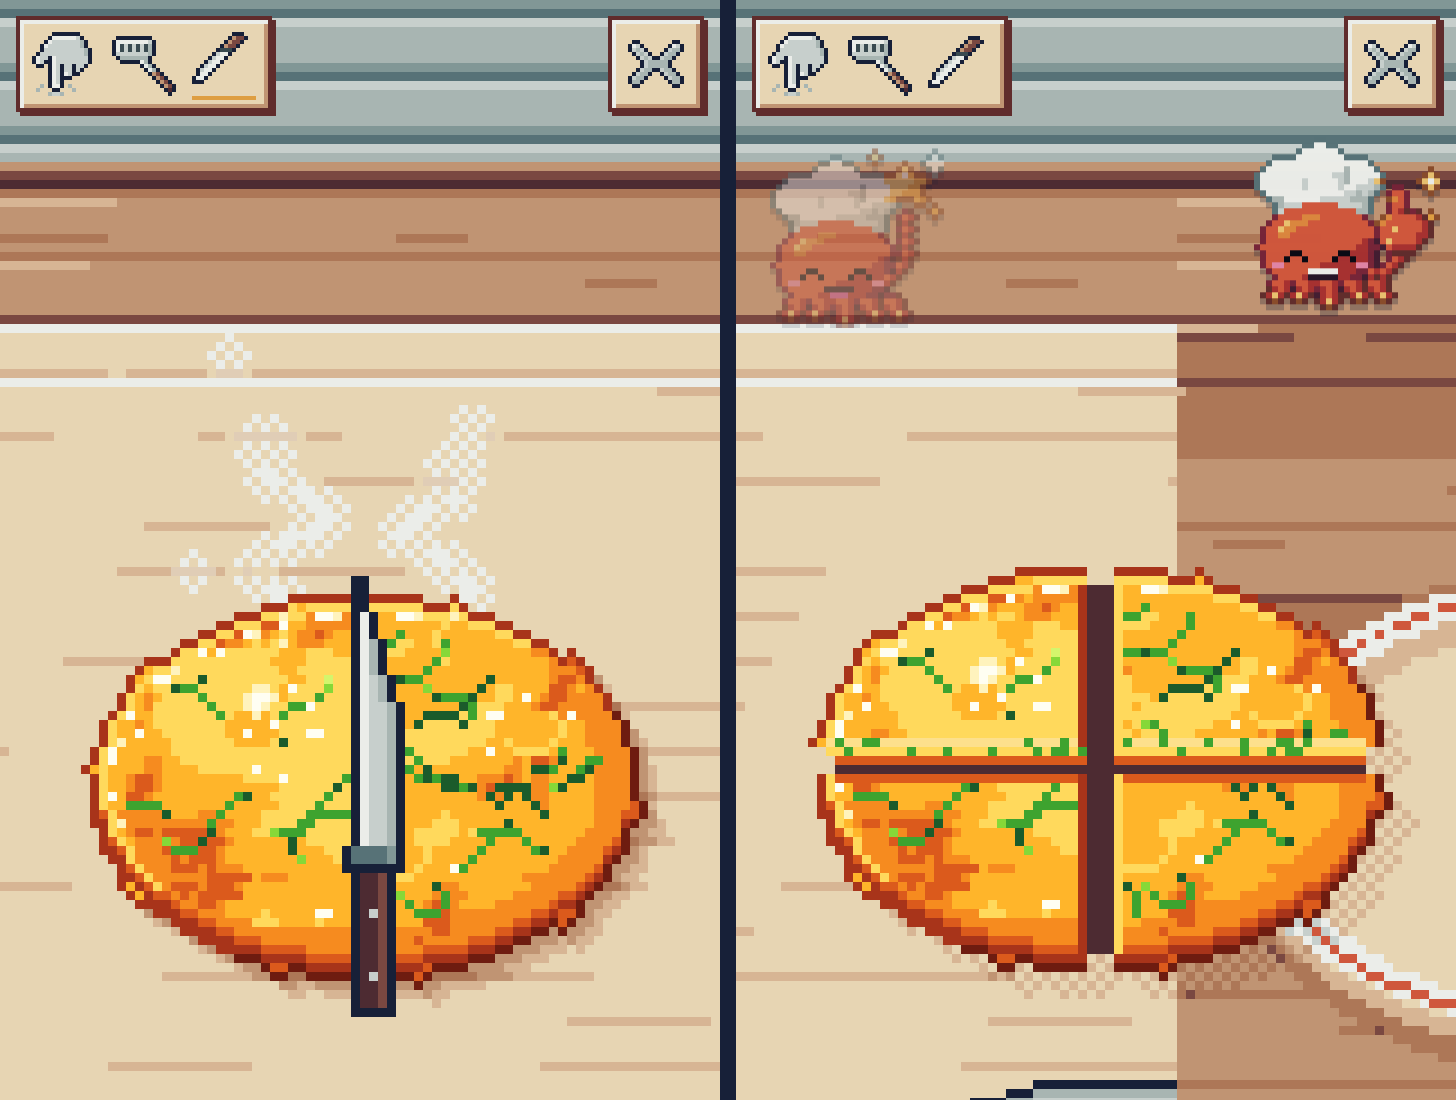
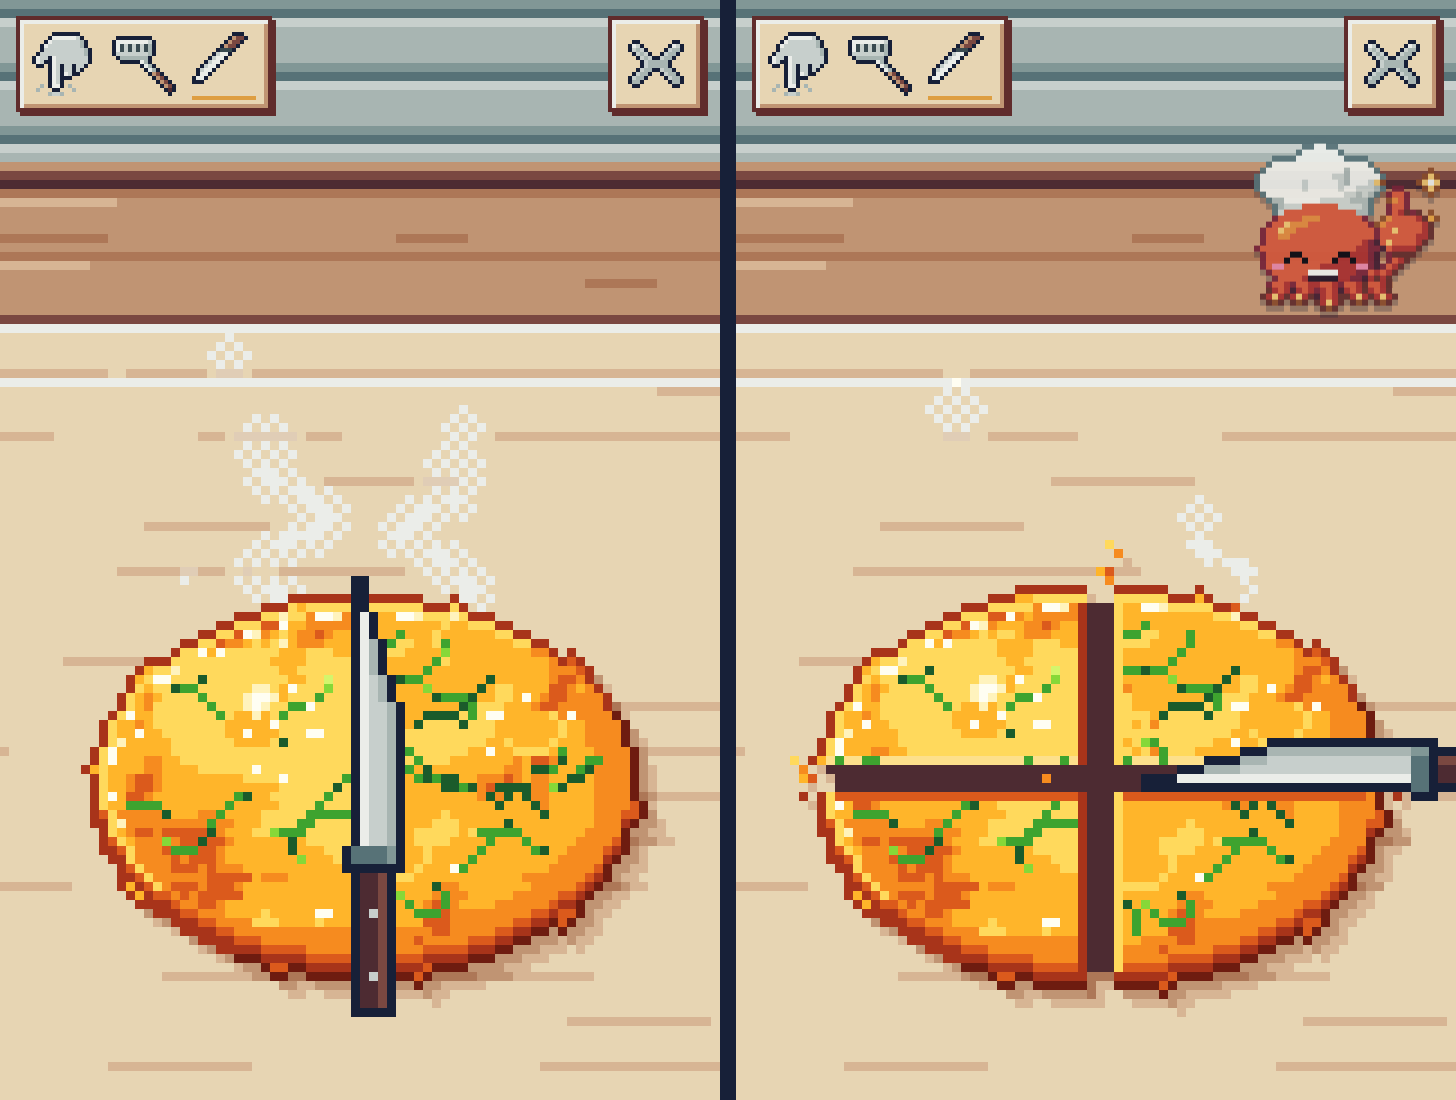
kitchen (round 6 K1 follow-up): both arms of the '+' read with the same weight
The opened gap is painted dark all through (the far piece's cut face no longer fills the horizontal gap),
so the horizontal arm shows 3 dark rows at rest / 5 on the pop like the vertical arm. Pin added; shots and
report updated.

Claude-Session: https://claude.ai/code/session_01Tq2y4TpL7nik5naNou5SQS

diff --git a/tools/test-cook.js b/tools/test-cook.js
@@ -1205,16 +1205,16 @@ section('round 6 K1 (11-18): bell, bigger knife and spatula, the symmetric \'+\'
     check(mir && n > 800, 'cutBuf sep ' + sp2.join(' / ') + ': the left and right quarters mirror each other pixel for pixel (' + n + ' px a side)');
     check(gv.every(function (g) { return g === 2 * sp2[0] + 1; }) && gh.every(function (g) { return g === 2 * sp2[1] + 1; }), 'cutBuf sep ' + sp2.join(' / ') + ': even gaps the whole way, vertical ' + gv.join(',') + ' horizontal ' + gh.join(',') + ' (2 sep + 1)');
   });
-  /* the scenes paint an opened cut as food seen from above: the far wall of a horizontal cut shows its soft inside and its
-     crust (two rows), so there the dark part is 2 sep - 1 rows, measured from the row under the cut (cy + 1) */
+  /* 11-18 (lead follow-up): both arms of the '+' read with the same weight: the dark rows of the horizontal arm equal the
+     dark columns of the vertical arm (3 at rest, 5 on the pop), measured through the cut (cy + 1 / cx) */
   /* sliceScene: the popping line opens to sep 2 on its cut frame, every other cut sits at sep 1 */
   var food = function (c) { return !!FS[c]; };
   var SL = [{ x: 72, y: 86, deg: 90, len: 44, cut: true }, { x: 72, y: 86, deg: 0, len: 64, cut: true }];
   function sl(o) { return paint(K, function (L, b) { L.sliceScene(b, Object.assign({ band: 1, dents: M9, lines: SL, cur: -1, knife: null, f: 0 }, o)); }); }
   var s0 = sl({}), sPop0 = sl({ flash: 0, pop: true }), sPop1 = sl({ flash: 1, pop: true }), sSet = sl({ flash: 0, pop: false });
   function gaps(b) { return [gapAt(b, food, 72, 96, 1, 0), gapAt(b, food, 90, 87, 0, 1)]; }
-  check(same(gaps(s0), [3, 1]) && same(gaps(sPop0), [5, 3]) && same(gaps(sPop1), [3, 5]) && same(gaps(sSet), [3, 3]),
-    'sliceScene: rest 3 / 1 dark; the cut frames light every opened gap (s6) and the pop opens only the new cut to 5 (' + [gaps(s0), gaps(sPop0), gaps(sPop1), gaps(sSet)].map(function (g) { return g.join('/'); }).join(' · ') + ')');
+  check(same(gaps(s0), [3, 3]) && same(gaps(sPop0), [5, 3]) && same(gaps(sPop1), [3, 5]) && same(gaps(sSet), [3, 3]),
+    'sliceScene: rest 3 / 3 (both arms the same dark weight); the pop opens only the new cut to 5 (' + [gaps(s0), gaps(sPop0), gaps(sPop1), gaps(sSet)].map(function (g) { return g.join('/'); }).join(' · ') + ')');
   /* REV2: t <= 4 the board look (sep 1), t 5 sep 2, t >= 6 and rest sep 1; no nudge (gaps even all along) */
   var LOOK0 = { v: 1, dents: M9, band: 2, cuts: [0, 0], offs: [0, 0], plate: 1 };
   function rv(t) { return paint(K, function (L, b) { L.revealScene(b, { geo: 'close', look: LOOK0, t: t, seed: 3 }); }); }
@@ -1223,13 +1223,15 @@ section('round 6 K1 (11-18): bell, bigger knife and spatula, the symmetric \'+\'
     var b = rv(t), up = t === 3 ? -2 : 0; rvG[t] = [[-12, -6, 8, 13].map(function (d) { return gapAt(b, food, G2.jcx, G2.jcy + d, 1, 0); }), [-20, -10, 10, 20].map(function (d) { return gapAt(b, food, G2.jcx + d, G2.jcy + 1 + up, 0, 1); })];
   });
   function all(a, v) { return a.every(function (g) { return g === v; }); }
-  check(all(rvG[null][0], 3) && all(rvG[null][1], 1) && all(rvG[6][0], 3) && all(rvG[6][1], 1) && all(rvG[40][0], 3), 'REV2 at rest (t null, 6, 40): four equal quarters, sep 1 all along (' + JSON.stringify(rvG[null]) + ')');
-  check(all(rvG[5][0], 5) && all(rvG[5][1], 3), 'REV2 t 5 (landing): the quarters part to sep 2 (' + JSON.stringify(rvG[5]) + ')');
-  check(all(rvG[3][0], 3) && all(rvG[3][1], 1), 'REV2 t 3 (carried): the board look, sep 1 (' + JSON.stringify(rvG[3]) + ')');
+  check(all(rvG[null][0], 3) && all(rvG[null][1], 3) && all(rvG[6][0], 3) && all(rvG[6][1], 3) && all(rvG[40][0], 3) && all(rvG[40][1], 3), 'REV2 at rest (t null, 6, 40): four equal quarters, sep 1 all along (' + JSON.stringify(rvG[null]) + ')');
+  check(all(rvG[5][0], 5) && all(rvG[5][1], 5), 'REV2 t 5 (landing): the quarters part to sep 2 (' + JSON.stringify(rvG[5]) + ')');
+  check(all(rvG[3][0], 3) && all(rvG[3][1], 3), 'REV2 t 3 (carried): the board look, sep 1 (' + JSON.stringify(rvG[3]) + ')');
+  check(gaps(s0)[0] === gaps(s0)[1] && gaps(sPop0)[0] === gaps(sPop1)[1] && same(rvG[null][0], rvG[null][1]) && same(rvG[5][0], rvG[5][1]),
+    'the horizontal arm\'s dark rows equal the vertical arm\'s dark columns: board at rest, plate at rest and at the landing');
   /* dish(): the counter / notebook picture, symmetric too (no nudge, no half) */
   var dsh = (function () { var b = K.blank(96, 66); K.dish(b, LOOK0, { herb: 'parae' }); return b; })(), DG = { jcx: 48, jcy: 29 };
   var dv = [-12, -6, 8, 13].map(function (d) { return gapAt(dsh, food, DG.jcx, DG.jcy + d, 1, 0); }), dhz = [-20, -10, 10, 20].map(function (d) { return gapAt(dsh, food, DG.jcx + d, DG.jcy + 1, 0, 1); });
-  check(all(dv, 3) && all(dhz, 1), 'dish(): four equal quarters, sep 1 all along (no nudge): ' + dv.join(',') + ' / ' + dhz.join(','));
+  check(all(dv, 3) && all(dhz, 3), 'dish(): four equal quarters, sep 1 all along (no nudge): ' + dv.join(',') + ' / ' + dhz.join(','));
   var srcArt = fs.readFileSync(ART, 'utf8');
   check(!/nudge:\s*1/.test(srcArt.slice(srcArt.indexOf('var DISHG'), srcArt.indexOf('var DISHG') + 400)) && !/half:\s*1,\s*nudge:\s*1,\s*gap/.test(srcArt), 'DISHG and the REV2 close-up carry no nudge and no half');
 })();

diff --git a/js/cook-art.js b/js/cook-art.js
@@ -1216,15 +1216,15 @@ var COOK_ART = (function () {
       for (var q = 0; q < 4; q++) { var gx = i + N4[q][0], gy = j + N4[q][1]; if (gx >= 0 && gy >= 0 && gx < W2 && gy < out.h && !occ[gy * W2 + gx] && inSil(gx, gy)) { faces.push([i, j, q]); break; } }
     }
     for (j = 0; j < out.h; j++) for (i = 0; i < W2; i++) if (!occ[j * W2 + i] && inSil(i, j)) gaps.push([i, j]);
-    /* the opened cut: a 1-px crack is the gap colour (J1); a wider opening shows the far piece's cut wall (its soft inside,
-       a seaweed fleck, then its bottom crust) and, where the opening is wider still, a warm dark shadow (never the plate) */
+    /* the opened cut: a 1-px crack is the gap colour (J1); a wider opening is a warm dark shadow (never the plate). 11-18:
+       the far piece's cut wall (soft inside, crust) is no longer painted inside the opening: the horizontal arm of a '+'
+       read 1 px dark against the vertical arm's 3 px */
     var isOcc = function (x, y) { return x >= 0 && y >= 0 && x < W2 && y < out.h && occ[y * W2 + x] === 1; };
     if (gap) gaps.forEach(function (g) {
       var x = g[0], y = g[1], col;
       if ((isOcc(x - 1, y) && isOcc(x + 1, y)) || (isOcc(x, y - 1) && isOcc(x, y + 1))) col = gap;
-      else if (isOcc(x, y - 1)) col = fc(ih(x, y, seed + 9) % 5 === 0 ? (J.herb === 'tot' ? 'T1' : 'P1') : 'J5');
-      else if (isOcc(x, y - 2) && !isOcc(x, y - 1)) col = fc(T.side[0]);
-      else col = C.w1;
+      else col = C.w1;   /* 11-18: the whole opening is dark, so both arms of a '+' read with the same weight (the cut face
+                            sits on the piece above the gap, painted by the faces pass below, not inside the gap) */
       put(out, x, y, col);
     });
     faces.forEach(function (f) {

diff --git a/docs/COOK_PROTO.md b/docs/COOK_PROTO.md
@@ -155,7 +155,7 @@ STRIDE = W + 8                                   미끄러짐 거리 (아트 px)
 - **안전 여백 · 가장자리**: 여백은 `.ck-probe` 의 padding 으로 잰다 (따로 연 쪽은 `env(safe-area-inset-*)`, 게임 안 창에서는 게임이 보낸 `--ck-safe-*` 가 더 크면 그것, §9). 여백은 HUD · 칩 · 쪽지 · 스티커 자리에 쓰고, 무대의 배율과 세로 자리 (hudB · chipTop → k · oy) 도 여백 안에서 정한다. 캔버스 자체는 늘 창 전체, 노치 · 홈 막대 밑까지 그린다. 마우스가 아닌 누름이 창 왼쪽 · 오른쪽 24 CSS px (`TUNE.edgeCss`) 안에서 시작하면 무시한다 (OS 뒤로 쓸기). 고리와 안내선 끝은 목표 크기 일곱에서 늘 가장자리에서 32 CSS px 이상이다 (N4).
 - **스티커 띠** (`.ck-stick`): 반응 스티커 (`js/cook-stickers.js`, 요리사 모자 쓴 문어 그림의 장식) 가 붙는 곳. 열 때 · 다시 때의 `pick` 과, 소리 act 가 있는 요리 순간을 같은 이름으로 받는다. HUD 아래 hudB + 4 에 너비 전체, 높이 s = 32·n / dpr CSS. 스티커 px 하나 = 기기 px n 개 (엔진은 스티커 px 하나를 CSS 2 px 로 그리므로 띠를 n / dpr / 2 배로 줌한다). 6차 (11-18, 주인 '스티커가 너무 작다'): 보일지는 전처럼 n0 = floor(2·dpr) 로 정하고, 보이면 n 은 n0 .. floor(3·dpr) 에서 들어가는 가장 큰 값 (최대 1.5 배, 더 작아지지 않음) — 단 줌 n / dpr / 2 가 1/64 의 정수배인 것만 (브라우저가 줌을 짧은 실수로 들고 있어서 4/3 같은 줌은 몇 칸마다 기기 px 하나씩 어긋난다: 2.625 의 n 7 은 블록 75 % 만 정확). 그래서 360 × 740 @2 · @3, 412 × 915 @2, 390 × 844 @3 은 96 CSS (전 64), 412 × 915 @2.625 는 61 그대로, 360 × 640 @2 는 64 (5 · 6 은 안 들어간다). 자리 0 은 왼쪽 max(8, safeL + 8), 자리 1 은 오른쪽 max(8, safeR + 8), 한 자리에 하나 (새 것이 앞 것을 바꾼다). hudB + 4 + 32·n0 / dpr + 8 ≤ (44 + oy)·css (무대 44 줄, 뒤집기 자리 위) 일 때만 보인다: 360 × 740 · 412 × 915 · 390 × 844 에서 보이고 320 × 568 · 360 × 560 에서 숨는다. 음식 · 고리 · 안내선 · 손 그림 · HUD · 칩 · 종 (아래) 을 가리지 않고, 누름을 받지 않고 (`pointer-events: none`), 화면 읽기에 없다 (`aria-hidden`). 닫을 때 · 다시 때 띠를 비운다. 주인 답 (나, 11-15 14시): 기분 얼굴 일곱 (감동 · 뿅 · 두근 · 깜짝 · 퓻 · 갸웃 · 진땀, `COOK_STICKERS.FEELINGS`) 은 부엌에서 뜨지 않는다. 뜨는 것은 휘휘 · 솔솔 · 바빠 · 빼꼼 · 짝짝 · 만세 · 따봉 · 다 됐다 · 한 접시. 자세한 것은 `docs/COOK_STICKERS.md`.
 - **종 · '띵'** (6차, 11-18, 주인 '시간 타이머가 딱 되면 띵!'): 뒤집기 단계에서 굽기가 노릇노릇이 되는 순간 (불 켜고 3 s, `band` 1 사건, 뒤집기 단계마다 한 번) 종 그림이 팬 오른쪽 위에 뜬다 — 소리를 켰을 때만 '띵' (§8), 그림은 늘. 프레임 (12 fps, 그 순간부터): 0 = 2 px 위로 튀고 1프레임 밝은 테 · 1~7 = 좌우로 1 px 흔들림 (홀수 프레임에 울림 표시: 돔 양옆 2 px 밖 1 × 3 획 둘 + 위 점) · 8~ = 가만히. 뒤집거나 바삭바삭이 되면 조용히 사라진다 (소리 · 표시 · 색 없음 — 바삭도 실패가 아니다). 진동 없음, 새 화면 읽기 낱말 없음 (줄이 이미 '노릇노릇'). 동작 줄이기: 처음부터 가만히, 울림 표시는 0~7 프레임 동안 멈춘 채. 그리기: `render()` 가 무대 장면 위에 (`COOK_ART.bell`), `frameSig` 에 f < 8 동안 넣는다, `live().bell` = `null | { f, shown }`.
-- **썰기 '+' 의 손맛** (6차): 자른 프레임 (12 fps 0) 에 새로 자른 줄의 조각들이 sep 2 (틈 5 px) 로 탁 벌어지고 틈이 1~2프레임 하얗게 빛난다 (`J.cut = { i, f }`, f 0 = 벌어짐, 1 = 제자리), 다음 프레임 sep 1 (틈 3 px) 로 '딱' 앉는다. 자른 줄의 한가운데 열 (또는 줄) 은 칼날 자리라 비우므로 양쪽이 거울처럼 같고 틈은 2·sep + 1 px 다 (59 px 전은 2 px 틈으로 똑같이 나눌 수 없다). 두 줄을 다 자르면 넷이 (±1, ±1) 로 쉬고 화면이 2프레임 옆으로 1 px 흔들린다 (전과 같음). 접시 (REV2): t ≤ 4 도마 그대로 (sep 1) · t 5 내려앉으며 sep 2 · t ≥ 6 똑같은 네 쪽 sep 1. 접시 · 수첩 그림 (`dish()`) 도 네 쪽 그대로 (예전의 `half` · `nudge` 없음).
+- **썰기 '+' 의 손맛** (6차): 자른 프레임 (12 fps 0) 에 새로 자른 줄의 조각들이 sep 2 (틈 5 px) 로 탁 벌어지고 틈이 1~2프레임 하얗게 빛난다 (`J.cut = { i, f }`, f 0 = 벌어짐, 1 = 제자리), 다음 프레임 sep 1 (틈 3 px) 로 '딱' 앉는다. 자른 줄의 한가운데 열 (또는 줄) 은 칼날 자리라 비우므로 양쪽이 거울처럼 같고 틈은 2·sep + 1 px 다 (59 px 전은 2 px 틈으로 똑같이 나눌 수 없다). 열린 틈은 가로 · 세로 모두 짙은 그늘 한 색이라 '+' 의 두 팔이 같은 굵기로 보인다 (예전엔 가로 틈 안에 먼 쪽의 속살 · 누룽지 줄을 그려 가로 팔이 1 px 로 보였다; 자른 면은 틈 위 조각의 마지막 줄에 그린다). 두 줄을 다 자르면 넷이 (±1, ±1) 로 쉬고 화면이 2프레임 옆으로 1 px 흔들린다 (전과 같음). 접시 (REV2): t ≤ 4 도마 그대로 (sep 1) · t 5 내려앉으며 sep 2 · t ≥ 6 똑같은 네 쪽 sep 1. 접시 · 수첩 그림 (`dish()`) 도 네 쪽 그대로 (예전의 `half` · `nudge` 없음).
 - **동작 줄이기**: `COOK.open({ reduced })` 또는 `prefers-reduced-motion` 또는 `data-motion="reduce"`. 끄는 것: 미끄러짐 (다음 프레임에 자리가 바뀐다) · 접시의 들림 (첫 프레임부터 쉬는 그림) · 어디서나 찌그러짐 · 입자 · 흔들림 · 호 (면만 바뀐다) · 손 그림 움직임 (정지 그림) · 김 움직임 (멈춘 그림, §5.1) · 화살표 까딱. 남는 것: 밝은 테두리 · 자국 · 칼집 · 굽기 색 · 손잡이 상태 · 멈춘 화살표 · 단계 띠 · 칩. 진동은 제 설정을 따르고, 뒤집기는 뒤집을 때 바로 울린다 (접시에는 진동이 없다). 창에는 CSS 애니메이션이 없다 (스티커는 자리 이동 없이 투명도만).
 - **소리 없이 손맛**: 센 입력은 그 입력 처리기 안에서 시뮬레이션을 지나고, 다음 그리기에서 무대가 바뀐다. 손이 직접 움직이는 칼 · 뒤집개는 화면 주기대로 아트 px 에 붙어 움직인다. 반응 애니메이션은 12 fps 계단. 입자 난수는 `mulberry32(COOK.fxSeed(seed, si))` (놀이 시드와 따로). 그리기 차례: 무대 장면 (144 × 160) → 번짐과 합치기 (또는 미끄러짐 프레임) → 흔들림 → `putImageData`. 흔들림은 화면 전체를 옮긴다 (`COOK_ART.shake(V, dx, dy, 0)`, 가장자리 되풀이: 무대와 번짐 사이가 찢어지지 않게).
 - **진동** (`buzz(name)` → `HAPTICS.buzz`. 소리 부름 옆, 시뮬레이션 밖. 그 처리기 안이나 정한 프레임에서만, 타이머로 부르지 않는다):

diff --git a/wip/round6/reports/K1.md b/wip/round6/reports/K1.md
@@ -4,7 +4,7 @@
 Done and pushed on `lane/k1`. The cut is now an exact '+': vertical line first, then horizontal, both through the food centre. It pops on the cut frame and settles on the next, and the plate shows four mirror-equal quarters. At golden ('노릇노릇') a 13 × 13 desk bell pops and swings. The '띵' sound plays only when sound is on; it is synthesized in `js/audio.js`, needs no file and no request, and plays even if `foley/manifest.json` fails. It never vibrates. The spatula, knife and stickers are bigger.
 
 `TUNE_HASH` is still 2827089308 and every suite passes:
-- `test-cook` 254/0
+- `test-cook` 255/0
 - `test-cook-live` 432/0
 - `test-cook-stickers-live` 217/0
 - `test-cook-audio` 205/0
@@ -56,6 +56,17 @@ One independent check found no `must` or `should` defects.
   - `docs/COOK_PROTO.md` §3 (the '+' rule), §5 (tool sizes, bell, the '+' feel, the sticker rule), §8 (ding, `COOK_NEXT`) and §12 (the rewritten checks).
   - `docs/COOK_STICKERS.md`: the size rule, zoom, hiding and checks.
 
+## Follow-up from the lead (applied)
+The two arms of the '+' now read with the same weight. `cutBuf` paints the whole opening dark (`w1`), and a 1-px crack still takes the gap colour. The far piece's cut face (soft inside, crust) was painted inside the horizontal gap; it is gone. The faces pass already paints the cut face on the last row of the piece above the gap.
+
+Result: 3 dark rows and 3 dark columns at rest, 5 and 5 on the pop. This holds on the board, the plate (REV2 t 3, t 5, t ≥ 6) and `dish()`.
+
+New pin in `test-cook`: the horizontal arm's dark rows equal the vertical arm's dark columns, on the board at rest and on the plate at rest and at the landing.
+
+Checked at 360×740 @2, 412×915 @2.625 and 320×568 @2 (rest, pop, plate): shots 3, 4, 5 and 8.
+
+The sticker rule for 2.625 is left as it is; the lead will handle it at merge. `js/cook-stickers.js` is untouched.
+
 ## Decisions
 - Kerf instead of a 2-px gap, as explained in the conclusion.
 - The sticker zoom must be a whole number of 1/64, as explained in the conclusion.
@@ -103,14 +114,12 @@ All of these files are already in `npm test` or the slow suites, so there are no
 5. The plate at t ≥ 6.
 6. 412@2.625 with stickers and the bell.
 7. 320×568: tools, no stickers.
+8. 412×915 @2.625 (top) and 320×568 @2 (bottom): cut 1 pop, settle, plate.
 
 ## Needs other lanes
 - **K2:** kkochi's slice painter should take `pop`. `paintDish` reads `J.cut` as an object.
 - **K2:** the tap → place mapping is in K2's `sound()`, and the prefetch I added covers it.
 - **Lead:** re-capture `tools/cook-shots.js` after the merge. I did not run it.
-
-## For the owner
-The arms of the '+' look different in weight. The vertical arm reads as a solid 3-px dark bar. The horizontal arm reads as a 1-px dark line with the cut face and crust beside it. This comes from the existing 3D cut-face shading, not from the geometry: the quarters are equal. It is worth a look against '+로 딱'.
 
 ## Not verified
 - I have not heard the ding by ear.
